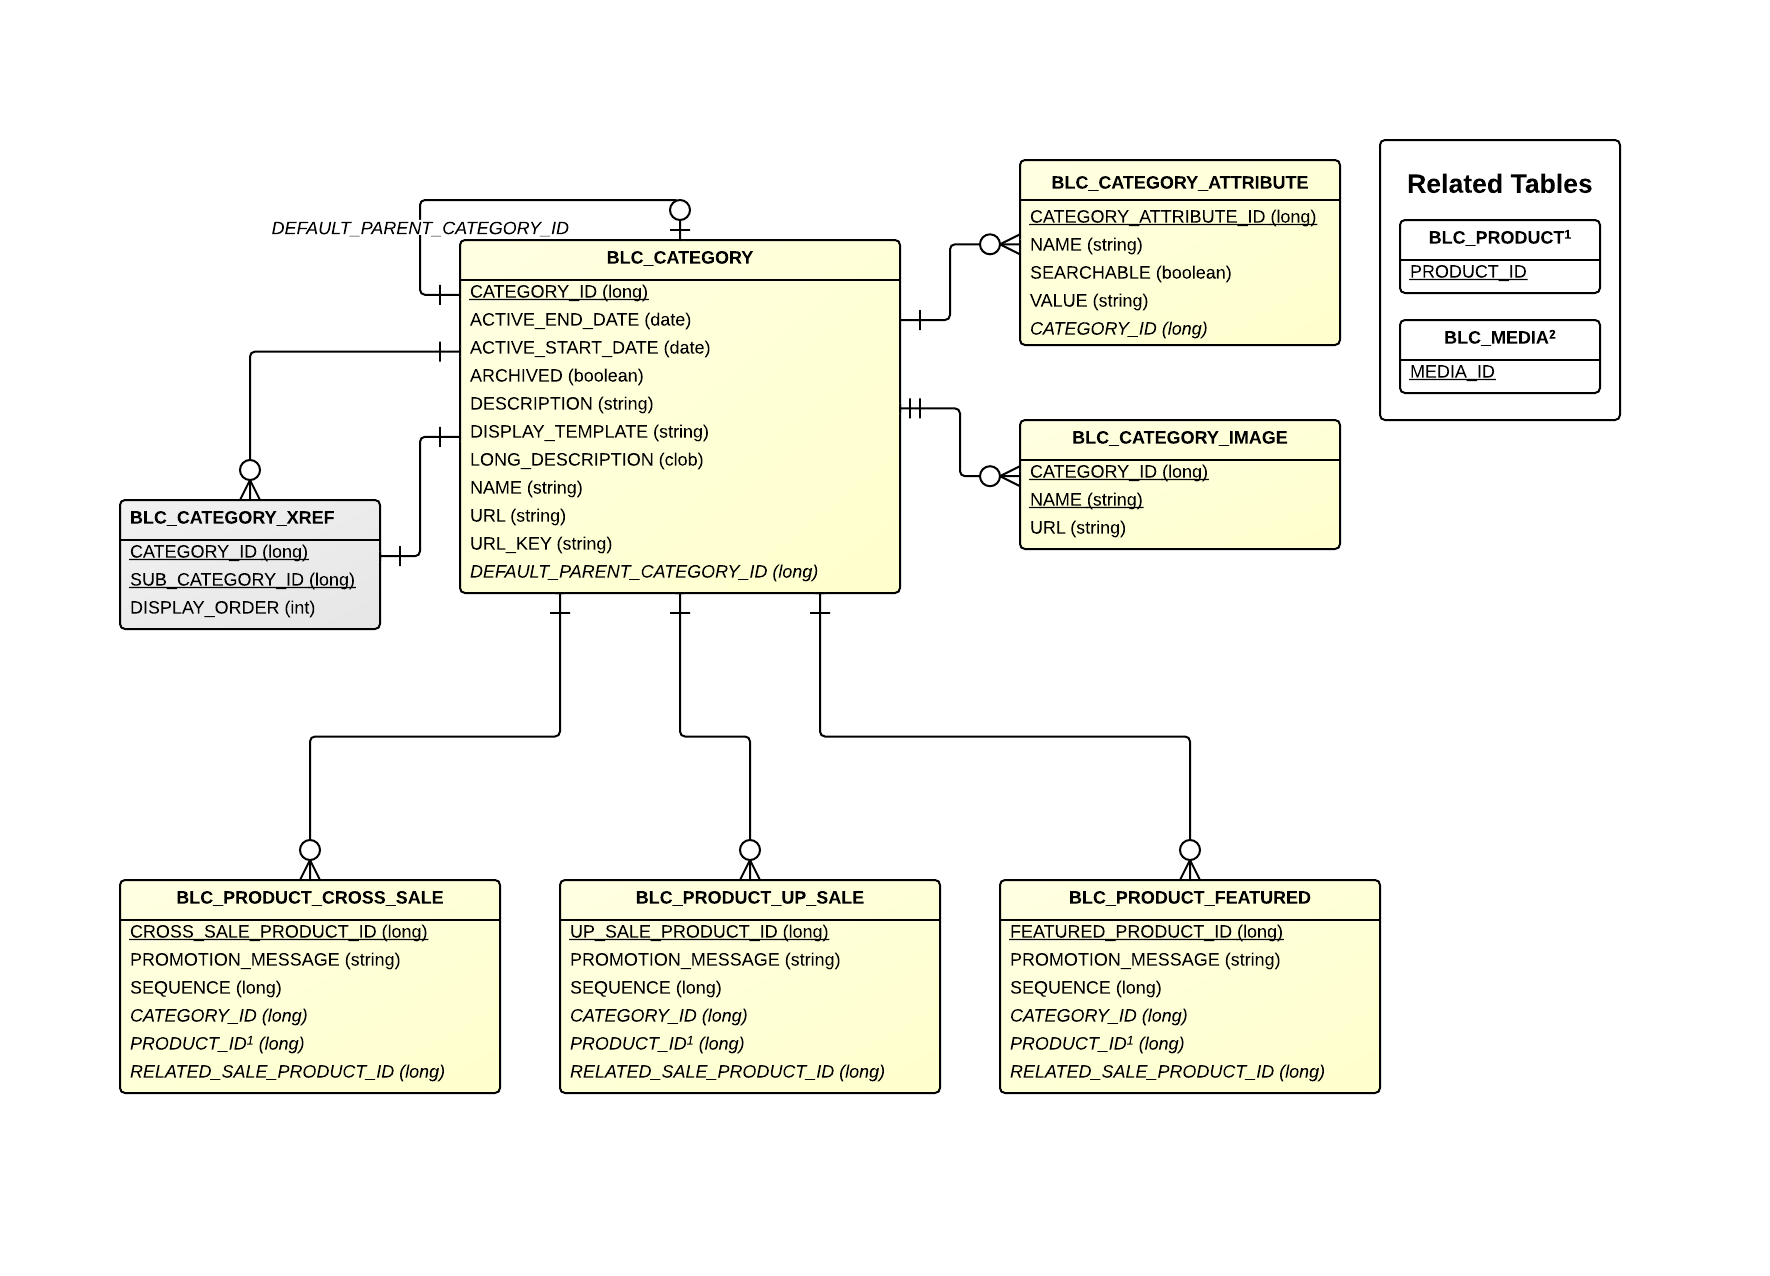
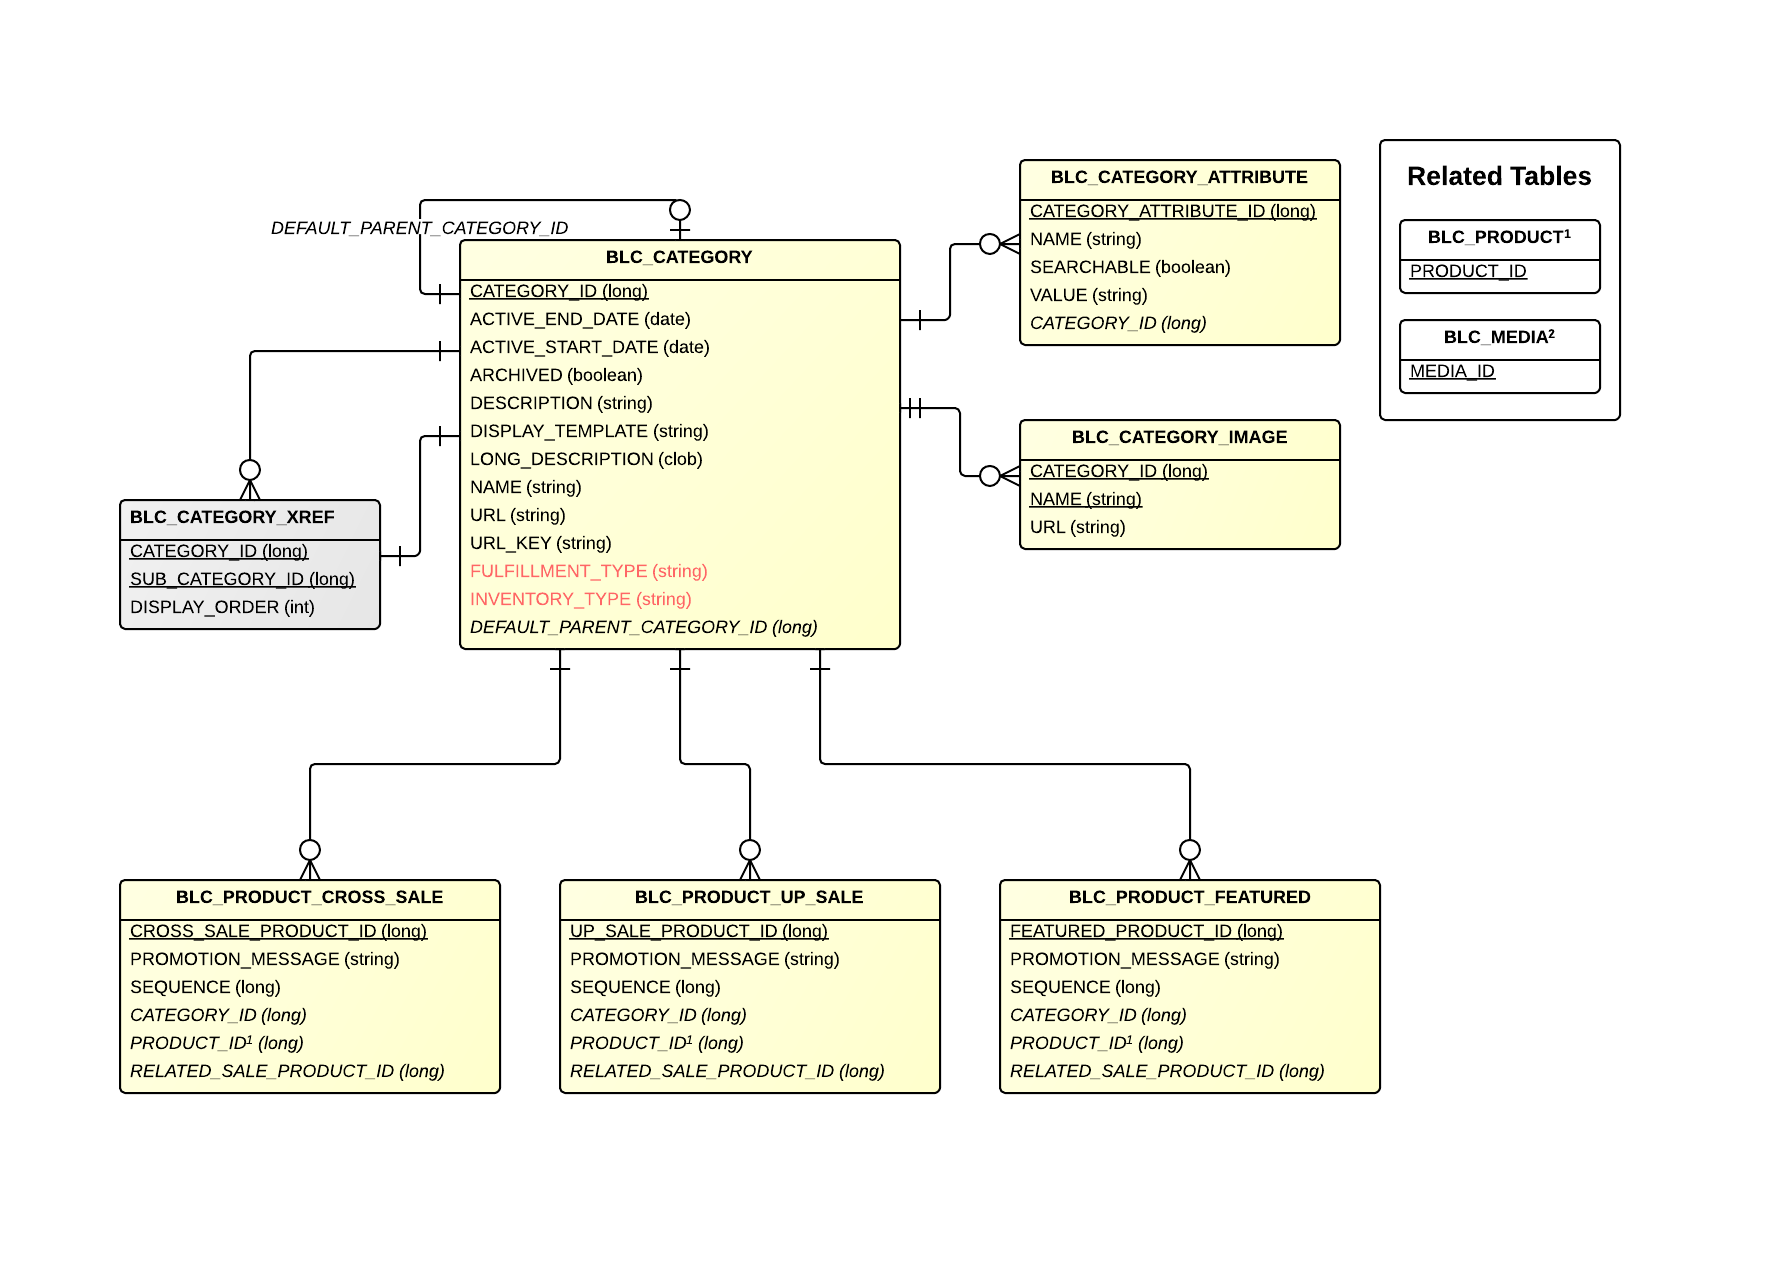
Added new fields to Category.

diff --git a/databaseModel/Database-Model.md b/databaseModel/Database-Model.md
@@ -8,13 +8,14 @@
 - In [[Common]]
 	- New Table: BLC_CURRENCY
 	- New Fields in `BLC_LOCALE`: CURRENCY_CODE 
-
+- In [[Category | Catalog Category]]
+	- New Fields in `BLC_CATEGORY`: FULFILLMENT_TYPE, INVENTORY_TYPE 
 
 - In [[Customer | Customer Detail]]
 	- New Table: BLC_CUSTOMER_PAYMENT
 - In [[Search | Catalog Search]]
 	- New Table: BLC_SEARCH_FACET_XREF 
-	- New Fields in `BLC_SEARCH_FACET`: REQUIRES_ALL_DEPENDENT 
+	- New Fields in `BLC_SEARCH_FACET`: FULFILLMENT_TYPE, INVENTORY_TYPE 
 
 ###Diagrams
 - [[Admin | Admin Model]]
